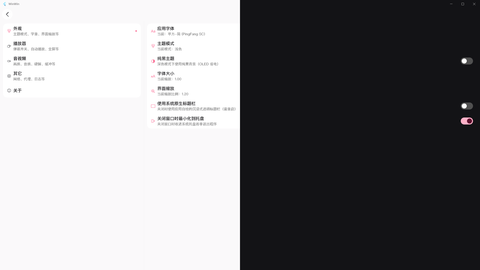
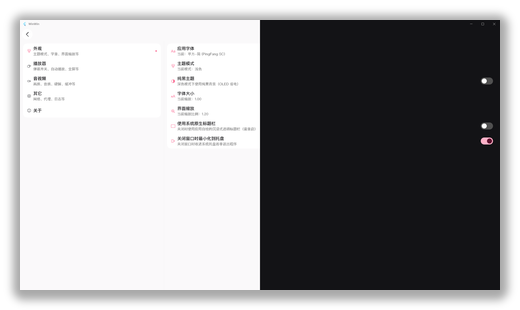
docs(readme): 演示截图区改为表格网格并烘焙卡片阴影
- README 演示区由散排 <p> 图片改为原生 table 网格：首页通栏 + 其余 2×2 等宽单元格，
  每张图配独立标题与要素说明（替代原汇总式单行说明）。
- 5 张截图原地重烘焙「外扩留白 + 柔和投影」静态卡片阴影：GitHub 会剥离 style 属性，
  CSS 悬浮阴影在网页端无效，故改为烘焙实现，任何渲染环境观感一致。
- 复盘追加 §9：记录定因（GitHub 消毒规则）、方案取舍、阴影参数、重烘焙幂等坑与验证口径。

Changed region(s): [[0.0, 0.0, 1.0, 1.0], [0.0, 0.0, 0.0312, 0.0296]]

diff --git a/docs/README展示图生成复盘-2026-10-25.md b/docs/README展示图生成复盘-2026-10-25.md
@@ -149,3 +149,51 @@
 ## 8. 总结
 
 以「应用内临时巡航 + RepaintBoundary 内部截帧（`UnconstrainedBox` 固定 1920×1080）」确定性产出 5 张「浅色左半 + 深色右半」合成图，规避了单实例锁、窗口尺寸漂移与不可视盲点三大问题；全部源改动已还原、临时件已归档，仓库仅新增 README 章节与 5 张成品图。成图观感待用户实机确认。
+
+---
+
+## 9. 追加（2026-10-26）：演示区改为表格网格 + 烘焙卡片阴影
+
+### 9.1 现象与需求
+
+上一版 README 演示区是散排的 `<p align="center">`：第 1 张通栏、其余 4 张按 `<img width="45%">` 两两换行，仅靠 `&nbsp;` 撑间距——**不成网格**（左右列不对齐、缩略图大小依赖文本流），且**无卡片感**，每张图只有一行汇总式说明（「其余页面：播放页 · 用户空间 · 番剧页 · 设置页」），没有逐图标题。
+
+用户要求：按**可见网格的表格**排列、图片加**悬浮阴影**、**每张图带独立描述标题**。
+
+### 9.2 定因（关键约束）
+
+GitHub 渲染 README 时会**剥离 `style` 属性等 CSS**（markup 消毒走 `Sanitize::Config::RELAXED` 白名单，属性级 `style` 不在白名单内），因此 `:hover { box-shadow }` 这类纯 CSS 悬浮阴影**在 GitHub 网页端必然失效**。也就是说「悬浮阴影」只有两条可行路径：烘焙进图片（静态），或接受它在网页端退化为无阴影。
+
+### 9.3 方案（经用户选择定稿）
+
+1. **网格**：用原生 `<table>`（第 1 行 `colspan="2"` 放首页大图，其后两行各 2 格），单元格 `width="50%"` + `align="center" valign="top"`，图用 `width="100%"` 填满单元格 → 天然对齐、左右两列等宽。GitHub 的表格样式会给 `td` 加 1px 边框，正好形成**可见网格**。
+2. **阴影**：采纳用户的「仅烘焙静态阴影」——用 Pillow 在每张图外扩留白并按图宽等比烘焙柔和投影，任何渲染环境（GitHub 亮/暗主题、本地预览器、终端网页）都能看到卡片悬浮感。
+3. **逐图标题**：每个单元格 `<img>` 后接 `<br>` + `<sub><b>页面名</b>：要素说明</sub>`，替代原来的汇总式单行说明。
+
+### 9.4 改动面
+
+- `README.md`：`## 🖼 程序演示模式截图` 区（原 35~48 行）整段替换为表格网格版块；说明区补两行（浅/深对照口径 + 阴影为烘焙静态实现的原因）。
+- `assets/screenshots/*.png`（5 张）：原地重写为「外扩留白 + 烘焙阴影」版本，视觉内容未改。
+  - 生成脚本 `scratch/screenshot-2026-10-26/bake_shadow.py`（gitignored 不入库；原图备份在同目录 `originals/`）。
+  - 参数：扩散半径 = 图宽 × 1.5%，留白 = 扩散半径 × 2.8，核心不透明度 0.34，高斯模糊 σ = 扩散半径 × 0.6，垂直下移 = 扩散半径 × 0.35（模拟顶部光源），圆角 = 图短边 × 0.8%（仅用于阴影轮廓，不裁切画面内容）。
+- 产物尺寸：`01-home.png` 1920×1080 → **2082×1242**；其余 4 张 480×270 → **520×310**。
+
+### 9.5 验证
+
+- 无 Dart / Flutter 代码改动，且 `assets/screenshots/` **未列入 `pubspec.yaml` 的 assets**（应用内只打包 `app_icon.png` / `flutter_logo.png`）→ 本轮**不涉及构建**，无需跑 analyze 与双编译。
+- 图片核验：5 张均为「留白对称、阴影柔和无硬边、画面内容零裁切」，见脚本输出的新尺寸与体积。
+- README 结构核验：表格行/单元格标签闭合正确，首页行 `colspan="2"`、其余两行 2 格，每格均带独立 `<sub>` 标题。
+- GitHub 实际渲染效果（表格边框、暗色主题下阴影可见度）需用户在仓库网页端确认。
+
+**提交与回滚**：改动前工作区干净，基准提交 `421cdaa`；如需整轮回滚执行 `git reset --hard 421cdaa`（会一并撤销本轮的 README 与 5 张图重写）。
+
+### 9.6 踩坑
+
+1. **GitHub 剥 CSS**：最初想用 `style="transition; box-shadow"` 做悬浮效果，确认网页端会被消毒剥离；改为烘焙静态阴影并把原因写进 README 注释，避免后人误以为漏做。
+2. **阴影重烘焙不可叠加**：脚本首版直接读取 `assets/screenshots/*.png` 再写回，第二次调参重跑会把旧阴影当原图再烤一遍（阴影发虚、留白翻倍）→ 改为**固定从 `originals/` 备份烘焙到目标路径**，保证可重复调参。
+3. **首版阴影偏「光晕」**：σ = 0.85×扩散半径、α 0.28 时边缘过散，卡片感弱；收紧到 σ = 0.6、α 0.34 后轮廓清晰且仍柔和。
+4. **README 行尾含 NBSP**：旧版图片行尾部是「空格 + 3×U+00A0」，用整段字符串替换时不易精确匹配；改用行号定位（Python 行级替换）并保留 LF 行尾、无 BOM。
+
+### 9.7 总结
+
+演示区从「散排图片 + 汇总说明」改为「原生表格网格 + 逐图标题 + 烘焙卡片阴影」：网格由 `td` 边框与等宽单元格保证对齐，阴影因 GitHub 禁止 CSS 而改为烘焙进 PNG（任何渲染环境一致），逐图标题替代原来的汇总单行。仅动 README 与 5 张 PNG，不涉及代码与构建。

diff --git a/README.md b/README.md
@@ -29,21 +29,37 @@
 ## 🖼 程序演示模式截图
 
 > 以下均为 **演示模式**（`设置 → 其它设置 → 演示模式`）下的干净截图：云端内容与账号标识被替换为占位，不含第三方素材。
+>
+> 每张为同一页面的 **浅色主题（左半）+ 深色主题（右半）** 对照；图片四周的卡片投影为**烘焙进 PNG 的静态阴影**（GitHub 会剥离 `style`，故不用 CSS 实现），点击图片可查看原图。
 
-<p align="center">
-  <a href="assets/screenshots/01-home.png"><img src="assets/screenshots/01-home.png" alt="根页面（首页）" width="100%"></a>
-</p>
-<p align="center"><sub><b>根页面（首页）</b>：左侧导航栏 + 推荐流卡片。</sub></p>
-
-<p align="center">
-  <a href="assets/screenshots/02-player.png"><img src="assets/screenshots/02-player.png" alt="播放页" width="45%"></a>    
-  <a href="assets/screenshots/03-space.png"><img src="assets/screenshots/03-space.png" alt="用户空间" width="45%"></a>
-</p>
-<p align="center">
-  <a href="assets/screenshots/04-bangumi.png"><img src="assets/screenshots/04-bangumi.png" alt="番剧页" width="45%"></a>    
-  <a href="assets/screenshots/05-setting.png"><img src="assets/screenshots/05-setting.png" alt="设置页" width="45%"></a>
-</p>
-<p align="center"><sub><b>其余页面</b>：播放页 · 用户空间 · 番剧页 · 设置页。</sub></p>
+<table align="center">
+  <tr>
+    <td colspan="2" align="center" valign="top">
+      <a href="assets/screenshots/01-home.png"><img src="assets/screenshots/01-home.png" alt="根页面（首页）" width="100%"></a><br>
+      <sub><b>根页面（首页）</b>：左侧导航栏 + 推荐 / 关注 / 热门 / 番剧 / 直播 分组推荐流。</sub>
+    </td>
+  </tr>
+  <tr>
+    <td width="50%" align="center" valign="top">
+      <a href="assets/screenshots/02-player.png"><img src="assets/screenshots/02-player.png" alt="播放页" width="100%"></a><br>
+      <sub><b>播放页</b>：播放器与控制栏、稿件互动区，右侧评论 / 相关推荐。</sub>
+    </td>
+    <td width="50%" align="center" valign="top">
+      <a href="assets/screenshots/03-space.png"><img src="assets/screenshots/03-space.png" alt="用户空间" width="100%"></a><br>
+      <sub><b>用户空间</b>：头图 + 资料卡 + 投稿 / 合集 / 动态 标签页。</sub>
+    </td>
+  </tr>
+  <tr>
+    <td width="50%" align="center" valign="top">
+      <a href="assets/screenshots/04-bangumi.png"><img src="assets/screenshots/04-bangumi.png" alt="番剧页" width="100%"></a><br>
+      <sub><b>番剧页</b>：索引筛选条 + 番剧卡片网格（集数与播放量）。</sub>
+    </td>
+    <td width="50%" align="center" valign="top">
+      <a href="assets/screenshots/05-setting.png"><img src="assets/screenshots/05-setting.png" alt="设置页" width="100%"></a><br>
+      <sub><b>设置页</b>：左侧分类导航 + 右侧分组设置项（含滑块与开关）。</sub>
+    </td>
+  </tr>
+</table>
 
 ---
 
